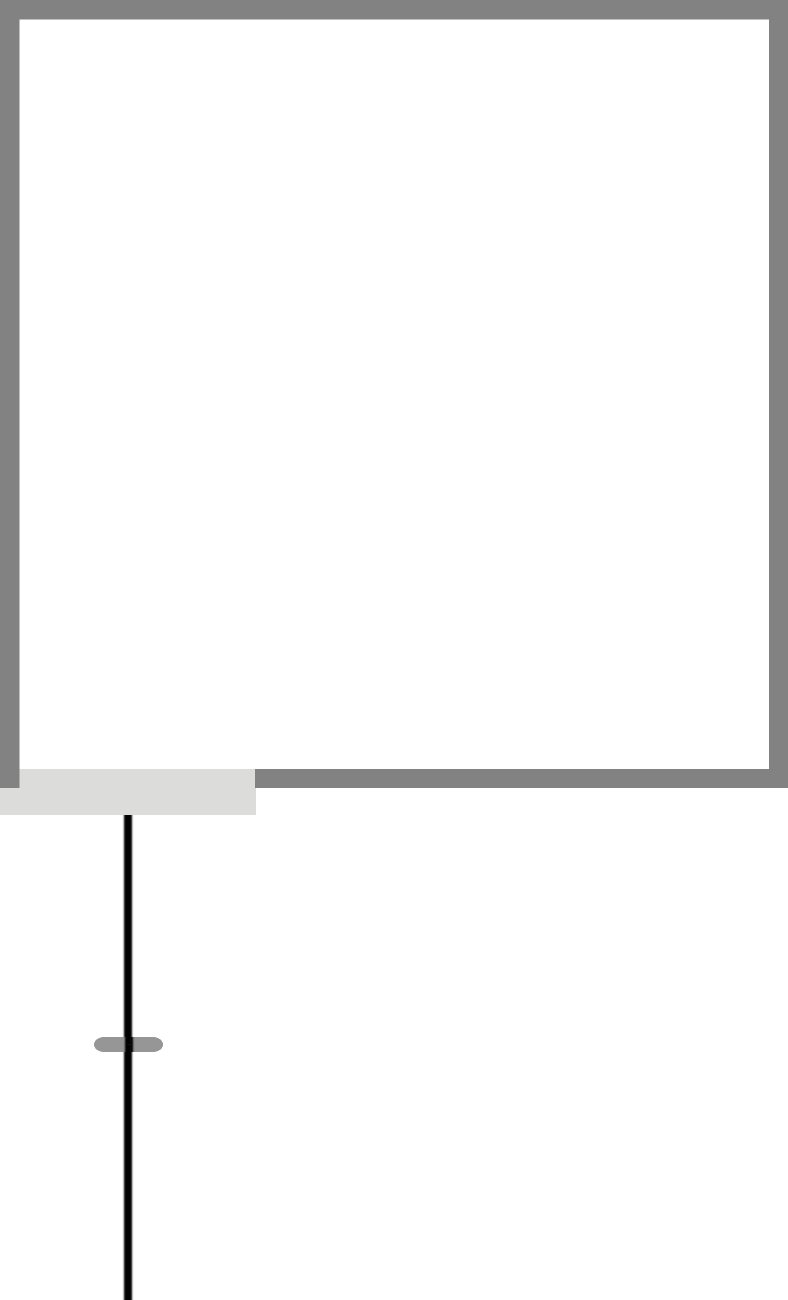
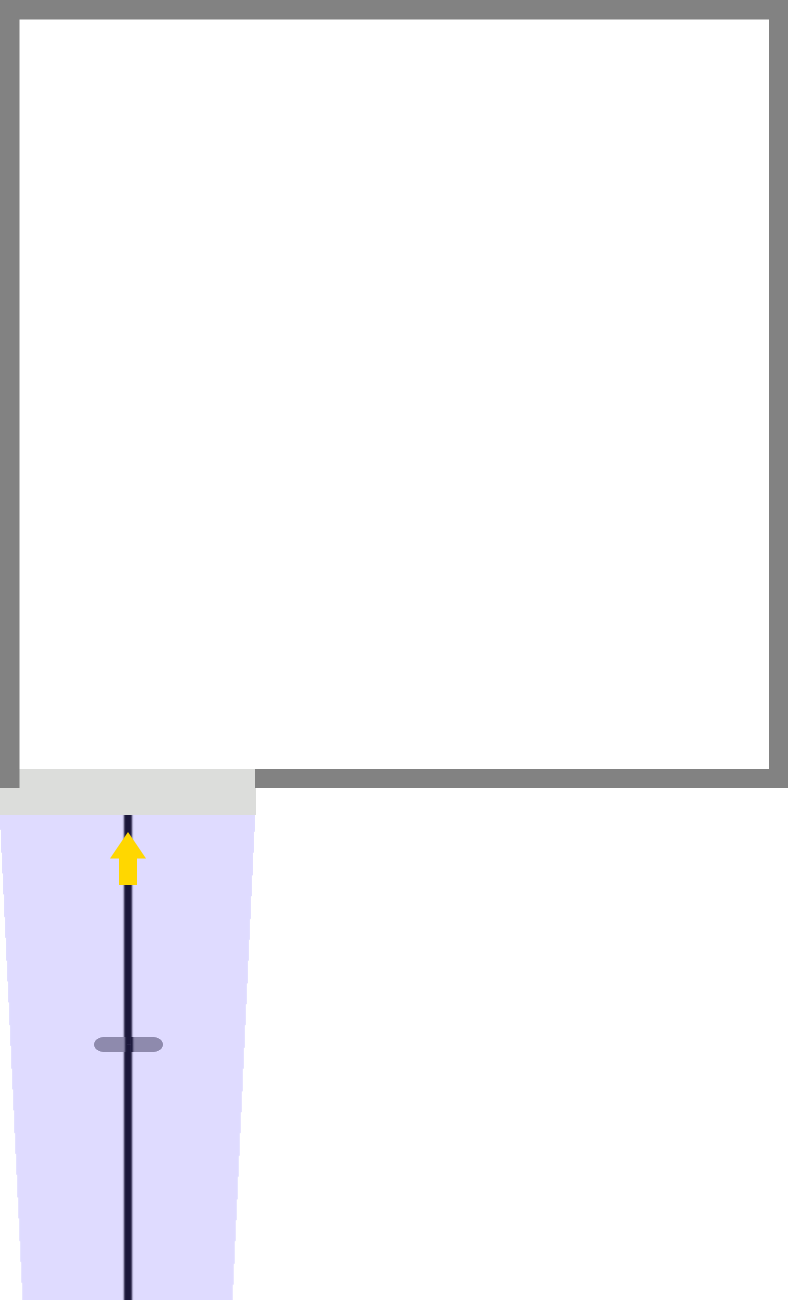
Degrade na visão de peças underline, adicionado filtro de local elevado nas rampas e corrigido a peças elevada não filtrada para superior / não existentes(gangorra)

Changed region(s): [[0.0, 0.6154, 0.335, 1.0]]

diff --git a/dataCode/UnderLine.cs b/dataCode/UnderLine.cs
@@ -3,17 +3,31 @@ using System;
 
 public class UnderLine : Area2D{
 	private bool IsOverlaping = false;
-
+	private float ModulateObjective = 1f;
 	public override void _Process(float delta){
 		if(IsOverlaping){
+			ModulateObjective = 0.4f;
 			GetParent().GetNode<Sprite>("TileBase").Visible = false;
 			GetNode<Sprite>("UnderLineSprite").Visible = true;
-			GetParent().GetNode<Sprite>("Filter").Modulate = new Color(1, 1, 1, 0.6f);
-		}
-		else{
+			
+			if((GetParent().GetNode<Sprite>("Filter").Modulate.a - ModulateObjective) < 0.01f){
+				GetParent().GetNode<Sprite>("Filter").Modulate =
+				new Color(1, 1, 1, ModulateObjective);
+			}else{
+				GetParent().GetNode<Sprite>("Filter").Modulate =
+				new Color(1, 1, 1, (float)(GetParent().GetNode<Sprite>("Filter").Modulate.a-((GetParent().GetNode<Sprite>("Filter").Modulate.a - ModulateObjective)*3f*delta)));
+			}
+		}else{
+			ModulateObjective = 1f;
 			GetNode<Sprite>("UnderLineSprite").Visible = false;
 			GetParent().GetNode<Sprite>("TileBase").Visible = true;
-			GetParent().GetNode<Sprite>("Filter").Modulate = new Color(1, 1, 1, 1);
+			if((ModulateObjective - GetParent().GetNode<Sprite>("Filter").Modulate.a) < 0.01f){
+				GetParent().GetNode<Sprite>("Filter").Modulate =
+				new Color(1, 1, 1, ModulateObjective);
+			}else{
+				GetParent().GetNode<Sprite>("Filter").Modulate =
+					new Color(1, 1, 1, (float)(GetParent().GetNode<Sprite>("Filter").Modulate.a+((ModulateObjective - GetParent().GetNode<Sprite>("Filter").Modulate.a)*1.8f*delta)));
+			}
 		}
 	}
 	private void _on_Area_mouse_entered(){
